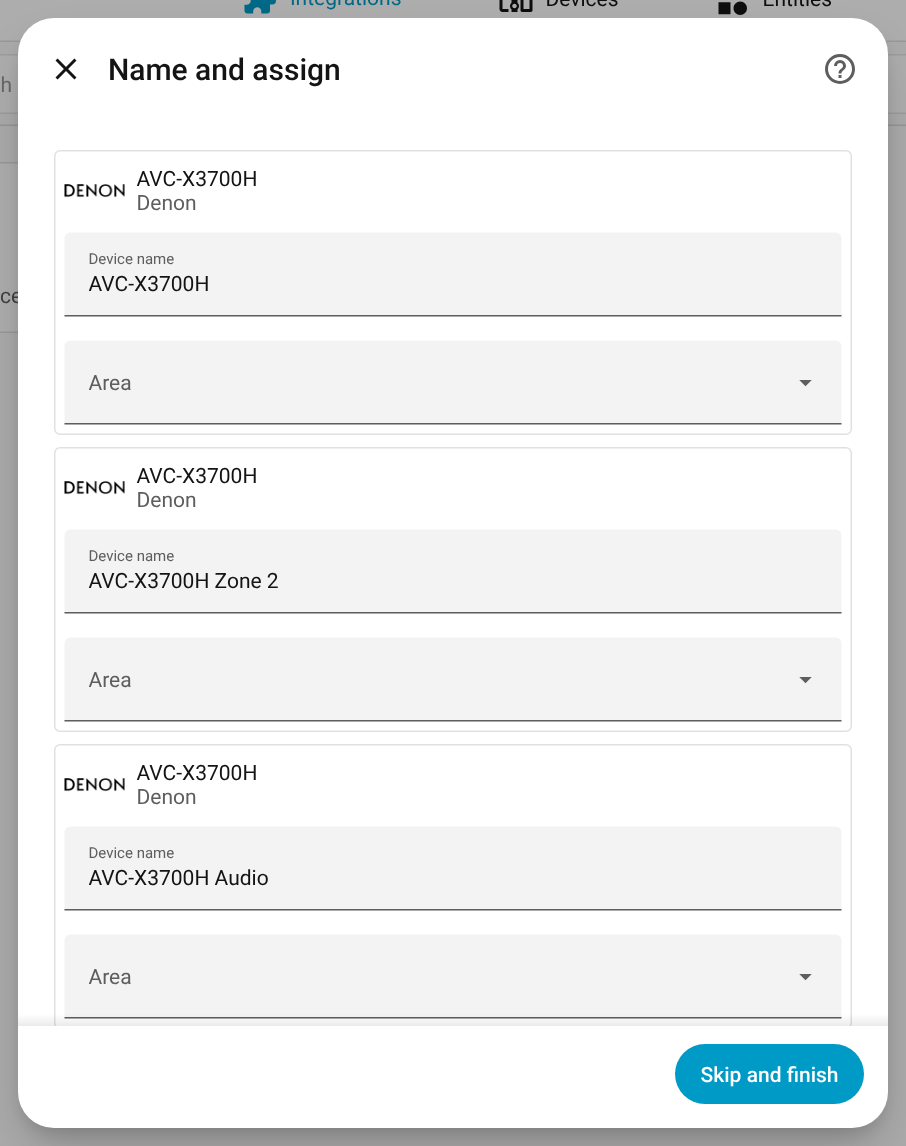
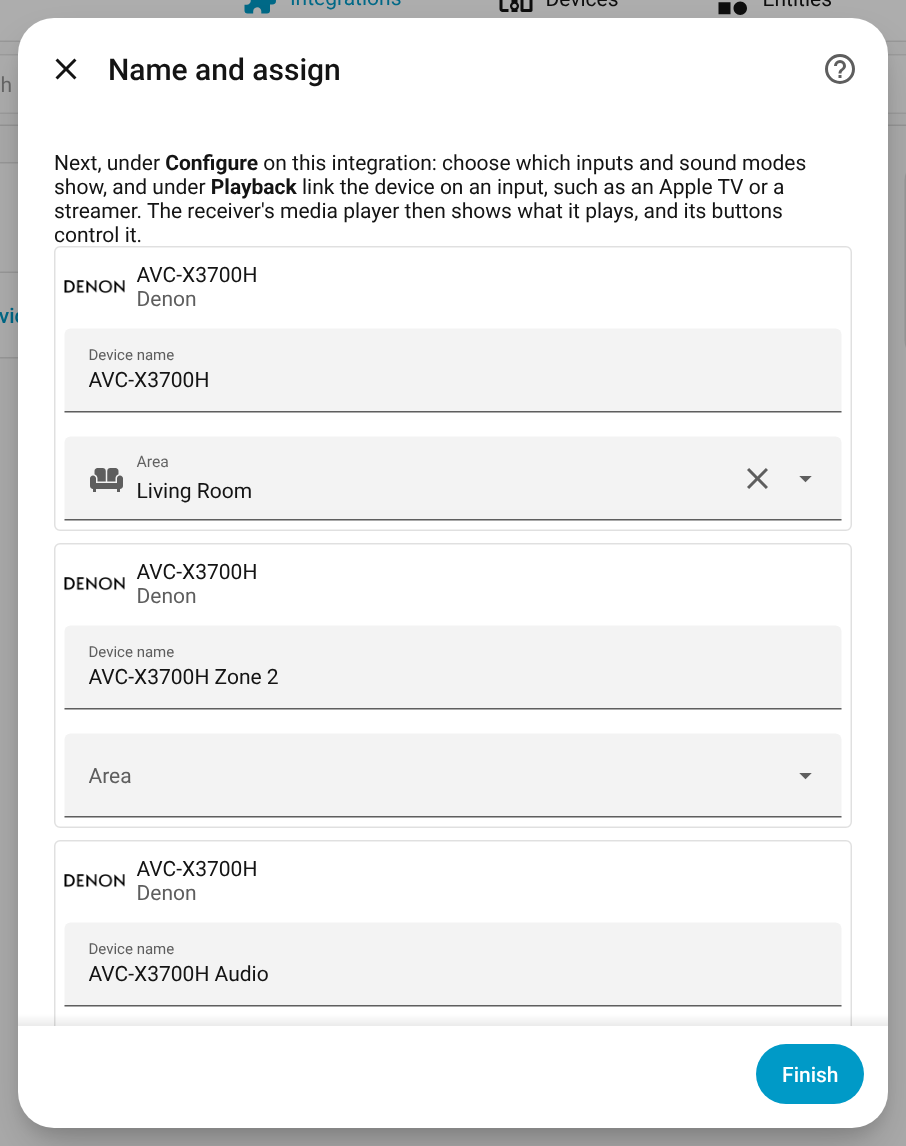
Diagnostics with options, example dashboard, setup hint, docs
- Diagnostics: the options and each linked player (state, features,
  which zone plays its input), no titles or artwork.
- Example dashboard: network music switch ids of new setups, playback
  buttons on the receiver tile, a note on linked players; a test checks
  its ids against a new setup.
- After setup, a text names the next steps: inputs and sound modes, and
  linking the device on an input.
- README, user guide and reference: the linked player (why, get started,
  everyday use, automations, the event, troubleshooting); screenshots of
  the dashboard, the player with a linked device and the finished setup.

diff --git a/custom_components/denonavr_plus/diagnostics.py b/custom_components/denonavr_plus/diagnostics.py
@@ -12,7 +12,10 @@ from dataclasses import asdict
 from typing import Any
 
 from homeassistant.components.diagnostics import async_redact_data
+from homeassistant.const import ATTR_SUPPORTED_FEATURES, CONF_HOST
 from homeassistant.core import HomeAssistant
+
+from . import linked_players
 
 from .avr.device import DenonAvrDevice
 from .avr.generation import generation_of
@@ -79,7 +82,39 @@ async def async_get_config_entry_diagnostics(
             "channel_levels": state.channel_levels,
             "channel_trims": state.channel_trims,
         },
+        # What is set in the options (zones, sources, names, playback), and
+        # the linked players as Home Assistant has them now.
+        "options": async_redact_data(dict(entry.options), TO_REDACT | {CONF_HOST}),
+        "linked_players": _linked_players(hass, entry),
     }
+
+
+def _linked_players(hass: HomeAssistant, entry: DenonAvrConfigEntry) -> dict[str, Any]:
+    """Each linked input: its player, the player's state and features, who plays it.
+
+    No titles or artwork: the diagnostics are attached to public issues.
+    """
+
+    coordinator = entry.runtime_data
+    found: dict[str, Any] = {}
+    for code, link in linked_players.links(dict(entry.options)).items():
+        state = hass.states.get(link.entity_id)
+        found[code] = {
+            "player": link.entity_id,
+            "follow": link.follow,
+            "full_volume": link.full_volume,
+            "player_state": state.state if state is not None else None,
+            "player_features": (
+                int(state.attributes.get(ATTR_SUPPORTED_FEATURES, 0)) if state is not None else None
+            ),
+            "played_by": [
+                zone
+                for zone in coordinator.shown_zones
+                if coordinator.data.zone(zone).power
+                and coordinator.device.zone_source(zone) == code
+            ],
+        }
+    return found
 
 
 def _media(device: DenonAvrDevice) -> dict[str, Any]:

diff --git a/tests/test_diagnostics.py b/tests/test_diagnostics.py
@@ -2,6 +2,7 @@
 
 from __future__ import annotations
 
+import asyncio
 import json
 from typing import Any
 from unittest.mock import AsyncMock, patch
@@ -149,3 +150,45 @@ async def test_diagnostics_hold_the_heos_lines(
     FakeHeos.instances[-1].log = ["12:00:00.000 < event/player_state_changed pid=202&state=play"]
     result = await get_diagnostics_for_config_entry(hass, hass_client, loaded_entry)
     assert result["heos_log"] == ["12:00:00.000 < event/player_state_changed pid=202&state=play"]
+
+
+async def test_diagnostics_show_the_options_and_the_linked_players(
+    hass: HomeAssistant,
+    hass_client: ClientSessionGenerator,
+    loaded_entry: MockConfigEntry,
+) -> None:
+    """What is set, and each linked player as Home Assistant has it, not what it plays."""
+    FakeTelnet.instances[-1].push("PWON", "ZMON", "SIDVD")
+    await asyncio.sleep(0.1)
+    await hass.async_block_till_done()
+    hass.states.async_set(
+        "media_player.apple_tv",
+        "playing",
+        {"supported_features": 1, "media_title": "Severance"},
+    )
+    hass.config_entries.async_update_entry(
+        loaded_entry,
+        options={
+            **loaded_entry.options,
+            "signal_state": True,
+            "linked_players": {
+                "DVD": {"player": "media_player.apple_tv", "follow": True, "full_volume": False}
+            },
+        },
+    )
+    await hass.async_block_till_done()
+
+    result = await get_diagnostics_for_config_entry(hass, hass_client, loaded_entry)
+
+    assert result["options"]["signal_state"] is True
+    assert result["linked_players"] == {
+        "DVD": {
+            "player": "media_player.apple_tv",
+            "follow": True,
+            "full_volume": False,
+            "player_state": "playing",
+            "player_features": 1,
+            "played_by": ["main"],
+        }
+    }
+    assert "Severance" not in json.dumps(result)

diff --git a/custom_components/denonavr_plus/config_flow.py b/custom_components/denonavr_plus/config_flow.py
@@ -120,6 +120,10 @@ def _skip_reason(upnp: Any) -> str | None:
     return None
 
 
+
+#: The text after setup: where to go next (config.create_entry.created).
+CREATED = "created"
+
 class DenonAvrConfigFlow(ConfigFlow, domain=DOMAIN):
     """Handle a config flow for Denon AVR."""
 
@@ -300,7 +304,9 @@ class DenonAvrConfigFlow(ConfigFlow, domain=DOMAIN):
                 description_placeholders={"model": title},
             )
         if self._described:
-            return self.async_create_entry(title=title, data=data, options=self._options())
+            return self.async_create_entry(
+                title=title, data=data, options=self._options(), description=CREATED
+            )
         return self._unknown_model_form()
 
     async def async_step_telnet_unavailable(
@@ -342,7 +348,9 @@ class DenonAvrConfigFlow(ConfigFlow, domain=DOMAIN):
             # The audible part needs someone at the TV: not in the background.
             options[OPT_CHECK_PENDING] = True
             options[OPT_TEST_PENDING] = [QUIET]
-        return self.async_create_entry(title=title, data=data, options=options)
+        return self.async_create_entry(
+            title=title, data=data, options=options, description=CREATED
+        )
 
     async def async_step_unknown_model(
         self, user_input: dict[str, Any] | None = None

diff --git a/tests/test_blueprints.py b/tests/test_blueprints.py
@@ -95,3 +95,23 @@ async def test_a_tv_that_drops_off_the_network_leaves_the_receiver_alone(
     hass.states.async_set("media_player.tv", "off")
     await hass.async_block_till_done()
     assert len(turn_off) == 1
+
+
+def test_the_example_dashboard_uses_entity_ids_a_new_setup_has() -> None:
+    """Each entity of the example exists in a new setup (the recorded receiver)."""
+    import json
+
+    view = yaml.load_yaml(str(ROOT / "examples" / "dashboard.yaml"))
+    snapshot = json.loads(
+        (ROOT / "tests" / "fixtures" / "entity_ids" / "AVC-X3700H.json").read_text()
+    )
+    known = {item["entity_id"] for item in snapshot.values()}
+    entities = {
+        card["entity"].replace(".avr_x2600h", ".avc_x3700h")
+        for section in view["sections"]
+        for card in section["cards"]
+        if "entity" in card
+    }
+    # Created only when the receiver reports quick selects; the recording does not.
+    model_dependent = {"select.avc_x3700h_quick_select"}
+    assert entities - model_dependent <= known, entities - model_dependent - known

diff --git a/tests/test_config_flow.py b/tests/test_config_flow.py
@@ -84,6 +84,8 @@ async def test_user_flow_creates_entry(hass: HomeAssistant) -> None:
     assert result["title"] == MODEL
     assert result["data"] == {CONF_HOST: HOST}
     assert result["result"].unique_id == MAC
+    # Where to go next: the options, linked players.
+    assert result["description"] == "created"
 
 
 async def test_user_flow_cannot_connect_then_recovers(hass: HomeAssistant) -> None:
@@ -477,6 +479,7 @@ async def test_an_unknown_model_can_be_checked_after_setup(hass: HomeAssistant) 
         "capability_check_pending": True,
         "command_test_pending": ["quiet"],
     }
+    assert result["description"] == "created"
 
 
 async def test_options_keep_the_markers_they_do_not_show(hass: HomeAssistant) -> None:

diff --git a/docs/USER_GUIDE.md b/docs/USER_GUIDE.md
@@ -135,7 +135,8 @@ The media player is the receiver's remote in Home Assistant: power, volume,
 mute, source and sound mode. On network sources it shows title, artist and
 cover and takes play, pause and skip; on other inputs it shows the input with
 its own artwork, the sound mode and the signal (for example
-`PCM · 44.1 kHz`).
+`PCM · 44.1 kHz`). On an input with a [linked player](#playback), such as an
+Apple TV, it shows what that device plays and its buttons control it.
 
 ![The media player](images/guide/more-info-player.png)
 
@@ -158,6 +159,8 @@ What makes it work well, and what to keep when you build your own:
   fit as buttons.
 - **The volume in dB** next to the player's percent: it is the number the
   receiver's display shows.
+- **Play and pause on the tile** work for network sources and for every
+  input with a linked player.
 - **The tuner only while it plays.** Its preset and frequency are unknown
   otherwise; the example hides the section then. Choosing a preset switches
   the receiver to the tuner.
@@ -233,6 +236,8 @@ input stay with the receiver, so one card does both. The receiver's media
 browser has a folder for the Apple TV too: starting an app or a show there
 switches the receiver to its input.
 
+![The receiver's media player on the Apple TV's input: the Apple TV's title, cover and position](images/guide/more-info-linked.png)
+
 ![The Playback step: an input to link, and the signal option](images/guide/options-playback.png)
 
 ![The linked player of an input, with its two switches](images/guide/options-linked-player.png)
@@ -306,6 +311,11 @@ Good practice for your own:
   same.
 - **Raw commands** (`denonavr_plus.send_command`) only for what has no
   entity; they are not checked against what the receiver can do.
+- **Let the receiver follow your Apple TV** with **Main zone switches to
+  this input when the player starts** (Configure → Playback) instead of an
+  automation. To react to such a switch, trigger on the event
+  `denonavr_plus_input_followed` (see the
+  [reference](REFERENCE.md#event-input-followed)).
 - **Receiver without network standby?** Build an automation on the device
   trigger **Turn on requested while the receiver does not answer** that
   switches it on by infrared or HDMI-CEC (see
@@ -443,6 +453,9 @@ of its source list. What they understand depends on the names you give.
 | A setting jumps back right after you change it, or an error says the receiver kept it | The receiver takes it only for some signals, sound modes or settings, and none in standby; the error names the condition. | Meet the condition and try again (for example Dynamic Compression with Dolby sound); the [reference](REFERENCE.md#notes-and-limitations) lists them. |
 | A sound mode you expect is missing | The receiver offers only the modes that fit the current signal. | Play the signal it is for; the list follows. |
 | An entity you need is not there | It starts hidden. | Device page → *+N disabled entities*, or **Configure → Entities**. |
+| The receiver's player does not show what the linked Apple TV plays | The zone plays another input, the Apple TV is idle or unavailable, or it reports no title. | Check the zone's input and the `linked_player` attribute of its media player; the Apple TV's own media player must show the title. |
+| The receiver switches inputs by itself | **Main zone switches to this input when the player starts** is on for a device that plays in the background. | Switch it off for that input under **Configure → Playback**. |
+| Repair *"Linked media player not found"* | The linked player was removed or its integration is gone. | Fix it to unlink, or pick another player under **Configure → Playback**. |
 | New texts are missing or show raw keys after an update | The app keeps the old texts. | Reload the browser page or restart the companion app. |
 
 Still stuck? Open an issue on GitHub with your model, its firmware version

diff --git a/README.md b/README.md
@@ -13,8 +13,8 @@
 
 **Your Denon or Marantz receiver in Home Assistant, completely.** Zones as
 their own devices, sources and sound modes the way the receiver offers them,
-Audyssey, speaker setup, video and graphic EQ, now playing over HEOS, and
-live updates over the local network.
+Audyssey, speaker setup, video and graphic EQ, now playing over HEOS and from
+the devices on its inputs, and live updates over the local network.
 
 ![A dashboard with the receiver, its quick selects and zone 2](https://raw.githubusercontent.com/johnnyh1975/ha_denonavr_plus/main/docs/images/guide/dashboard.png)
 
@@ -30,6 +30,11 @@ live updates over the local network.
 - **Tidy by default.** What you change while listening starts enabled; setup
   settings wait on sub-devices (Audio, Video, Picture, Speakers, Graphic EQ),
   ready to switch on per group.
+- **One player for the receiver and what plays on it.** Link the Apple TV,
+  streamer or Chromecast on an input: the receiver's media player shows its
+  title, cover and position, its buttons control it, and its library is in
+  the receiver's media browser. If you like, the receiver switches to the
+  input when the device starts playing and keeps the device at full volume.
 - **Instant and robust.** Changes arrive the moment they happen. When the
   control connection drops, power, volume, mute and source keep working.
 - **Safe to try.** It takes a receiver over from the official integration
@@ -129,7 +134,9 @@ across VLANs, ports 23 and 8080 open
    receiver, its zones and sub-devices.
 3. **[Tailor it](docs/USER_GUIDE.md#5-tailor-it-in-the-options)**: volume
    limits, sources and sound modes, the settings you want to see.
-4. **[Automate it](docs/USER_GUIDE.md#6-automations-that-work-well)**: the
+4. **[Link the devices on its inputs](docs/USER_GUIDE.md#playback)**: an
+   Apple TV or a streamer, so one card shows and controls what you hear.
+5. **[Automate it](docs/USER_GUIDE.md#6-automations-that-work-well)**: the
    blueprints for "TV on, receiver on" and a night mode.
 
 ## Documentation

diff --git a/docs/REFERENCE.md b/docs/REFERENCE.md
@@ -621,6 +621,33 @@ its whole status, which takes several seconds; the current values follow
 within a few seconds. The diagnostics show how long each part took
 (`setup_timings_ms`).
 
+## Event: input followed
+
+When the main zone follows a linked player (**Main zone switches to this
+input when the player starts**, under Configure → Playback), Home Assistant
+gets the event `denonavr_plus_input_followed`, with the player's context:
+
+| Field | Value |
+|---|---|
+| `entity_id` | The main zone's media player |
+| `source` | The input it switched to, as the media player names it |
+| `previous_source` | The input it played before; `None` when the zone was off |
+| `player` | The linked player that started |
+
+```yaml
+triggers:
+  - trigger: event
+    event_type: denonavr_plus_input_followed
+    event_data:
+      player: media_player.apple_tv
+actions:
+  - action: light.turn_on
+    target:
+      entity_id: light.living_room
+    data:
+      brightness_pct: 20
+```
+
 ## Blueprints and an example dashboard
 
 How to build on them: [user guide, sections 4 and 6](USER_GUIDE.md#4-everyday-use).
